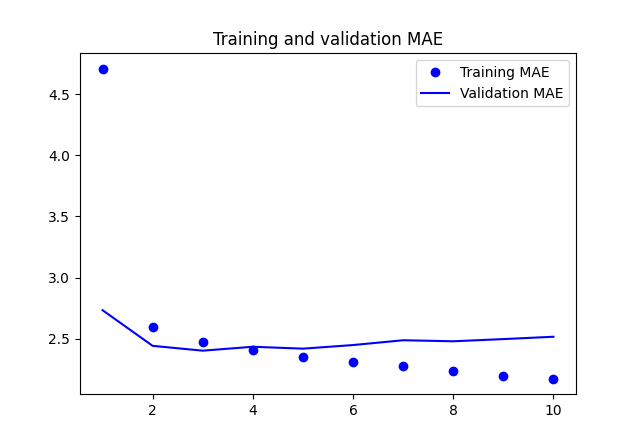
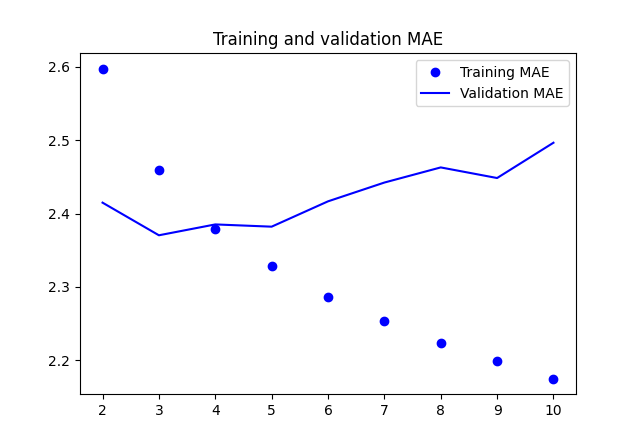
dlwp 10.3

diff --git a/ch10/dlwp.10.3.py b/ch10/dlwp.10.3.py
@@ -1,0 +1,29 @@
+# 10.3 Understanding recurrent neural networks
+print("10.3 Understanding recurrent neural networks")
+# Suppress warnings
+import os, pathlib
+os.environ['TF_CPP_MIN_LOG_LEVEL'] = '2'
+
+#
+# Listing 10.15 NumPy implementation of a simple RNN
+print("Listing 10.15 NumPy implementation of a simple RNN")
+import numpy as np
+timesteps = 100
+input_features = 32
+output_features = 64
+inputs = np.random.random((timesteps, input_features))
+state_t = np.zeros((output_features,))
+# Create random weight matrices
+W = np.random.random((output_features, input_features))
+U = np.random.random((output_features, output_features))
+b = np.random.random((output_features,))
+successive_outputs = []
+for input_t in inputs:
+    output_t = np.tanh(np.dot(W, input_t) + np.dot(U, state_t) + b) 
+    #print("output_t: ", output_t)
+    successive_outputs.append(output_t)
+    state_t = output_t
+final_output_sequence = np.stack(successive_outputs, axis=0)
+
+for i in final_output_sequence:
+    print(i)

diff --git a/ch10/dlwp.10.2.5.py b/ch10/dlwp.10.2.5.py
@@ -134,8 +134,8 @@ loss = history.history["mae"]
 val_loss = history.history["val_mae"]
 epochs = range(1, len(loss) + 1)
 plt.figure()
-plt.plot(epochs, loss, "bo", label="Training MAE")
-plt.plot(epochs, val_loss, "b", label="Validation MAE")
+plt.plot(epochs[1:], loss[1:], "bo", label="Training MAE")
+plt.plot(epochs[1:], val_loss[1:], "b", label="Validation MAE")
 plt.title("Training and validation MAE")
 plt.legend()
 plt.show()
